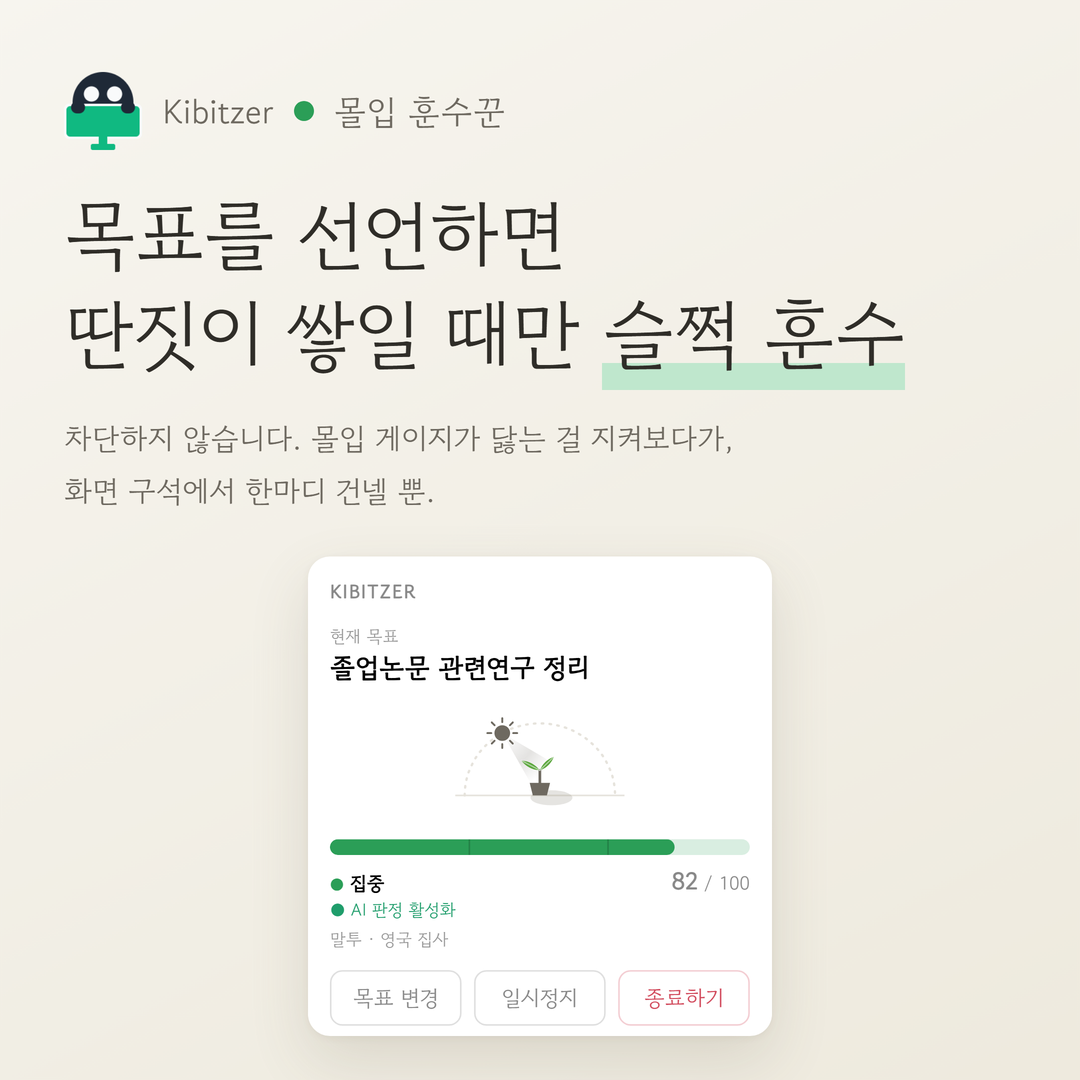
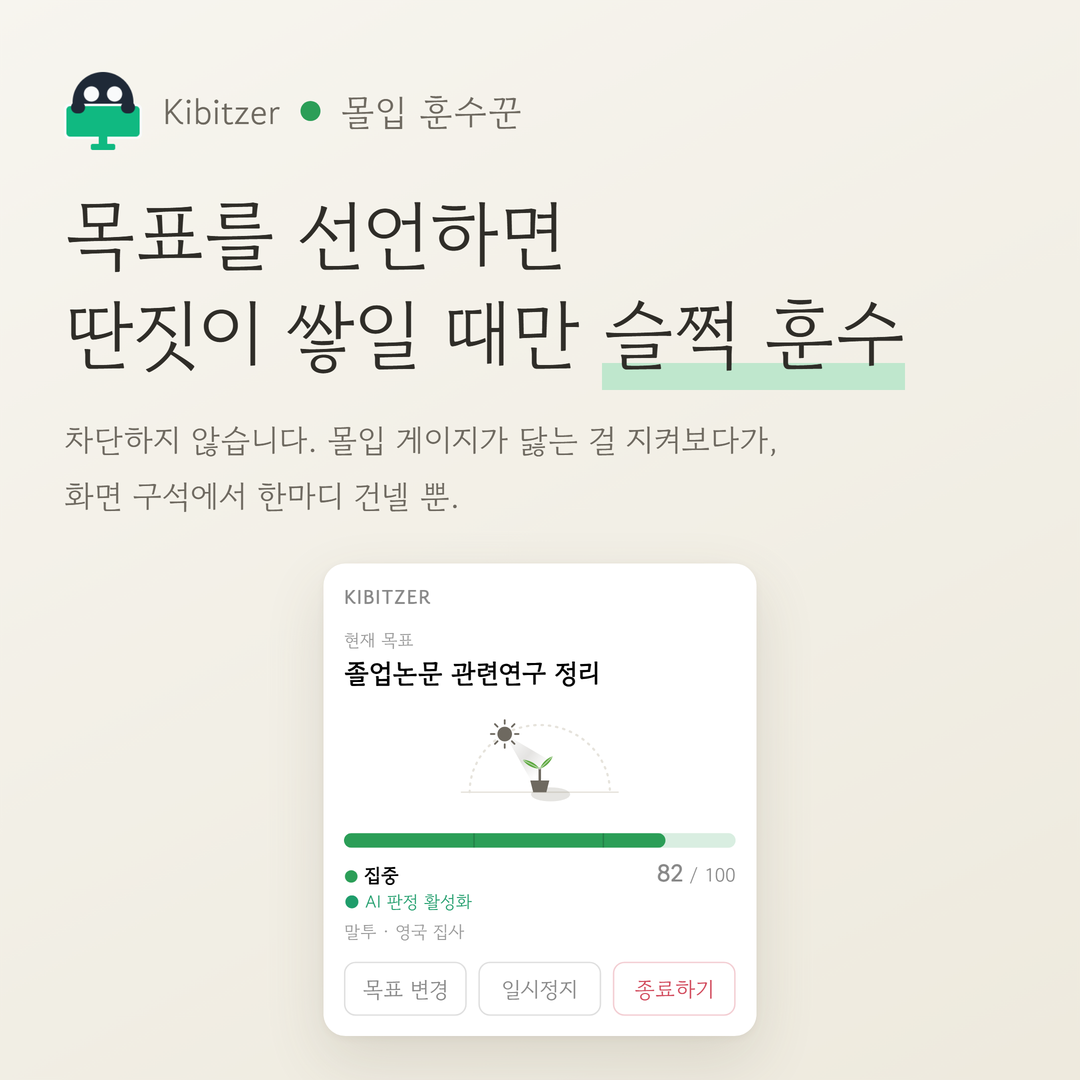
instagram: increase font sizes in insta1, insta2, insta3, insta4

Changed region(s): [[0.0611, 0.3972, 0.7333, 0.9778], [0.1528, 0.0917, 0.4889, 0.1222], [0.4583, 0.6722, 0.4889, 0.7028]]

diff --git a/tools/store-shot/stub.js b/tools/store-shot/stub.js
@@ -36,6 +36,11 @@
   // shipped sizes read a touch small blown up. Scoped to that one pane; nothing else shifts.
   var fontBumpPersona = params.get("fontBump") === "persona";
 
+  // ?fontBump=active — same idea for the popup's active (goal) card: 현재 목표, 게이지
+  // state/score, 말투 line, and the four buttons. Scoped to #active so scene1.html/
+  // store-1-popup.png (plain popup.html, no fontBump) stays untouched.
+  var fontBumpActive = params.get("fontBump") === "active";
+
   var PERSONAS = [
     { key: "navigation", name: "내비게이션", tier: "default" },
     { key: "tsundere", name: "츤데레", tier: "default" },
@@ -109,7 +114,9 @@
     cards: cardsParam ? cardsParam.split(",") : ["highlight"],
     comment: {
       status: "ready",
-      text: "78분 중 61분을 논문에 쓰셨습니다. 나머지 17분의 행방은 굳이 여쭙지 않겠습니다.",
+      // \n은 실제 UI에선(white-space:normal) 그냥 공백으로 뭉개져 무시된다 — "나머지" 뒤에서
+      // 줄바꿈되는 건 part=head 슬라이스에서만(.comment-text{white-space:pre-line} 참고).
+      text: "78분 중 61분을 논문에 쓰셨습니다. 나머지\n17분의 행방은 굳이 여쭙지 않겠습니다.",
     },
     seen: false,
     createdAt: 0,
@@ -222,7 +229,19 @@
     // The '세션 더보기' toggle and '확인' button go in both slices: they are real UI, but a
     // still image has nothing to toggle or confirm.
     if (part === "head") {
-      s.textContent += "#sumMore,#sumReport,#sumDone{display:none!important}";
+      s.textContent +=
+        "#sumMore,#sumReport,#sumDone{display:none!important}" +
+        // 이 슬라이스에서 보이는 텍스트 전부 +1px. 숫자 하나씩 직접 바꿔서 조정한다.
+        "h1{font-size:13px!important}" +           /* KIBITZER 워드마크 */
+        ".sumlabel{font-size:12px!important}" +    /* 세션 요약 */
+        ".sumgoal{font-size:18px!important}" +     /* 목표 문구 */
+        ".stat-name{font-size:13px!important}" +   /* 유효 페이지 비율 등 항목 이름 */
+        ".stat-val{font-size:16px!important}" +    /* 32/41, 1시간 1분, 3회 */
+        ".stat-val small{font-size:13px!important}" + /* · 78%, / 1시간 18분 */
+        ".top-title{font-size:14px!important}" +   /* 가장 오래 머문 페이지 제목 */
+        ".top-meta{font-size:12px!important}" +    /* 유효 · arxiv.org · 23분 */
+        ".comment-head{font-size:12px!important}" + /* 영국 집사의 한 줄 평 */
+        ".comment-text{font-size:14px!important;white-space:pre-line}"; /* 한 줄 평 본문 */
     } else if (part === "cards") {
       s.textContent +=
         // h1 goes too — the left slice already carries the KIBITZER wordmark, and repeating it
@@ -245,10 +264,22 @@
         // set by how much of its column the label text fills (최장 집중 연속 vs 첫 딴짓까지 are
         // different lengths) — widening the gap swamps that difference so the three read as
         // evenly spaced.
-        ".metrics{grid-template-columns:repeat(3,1fr);gap:8px 22px}" +
+        ".metrics{grid-template-columns:repeat(3,1fr);gap:8px 8px}" +
         // 📉 몰입 곡선: pull the legend right up under the chart (no gap at all) and shave the
         // chart's own height too — together that's what shortens the card.
-        ".scurve{height:44px}.scurve-legend{margin-top:0}";
+        ".scurve{height:44px}.scurve-legend{margin-top:0}" +
+        // 이 슬라이스에서 실제로 쓰는 카드(하이라이트·지난번보다·집중·몰입 곡선)의 텍스트만
+        // +1px. cards= 목록에 딴짓 리포트(.mischief/.rank)나 사이트별 시간을 추가하면 그
+        // 카드들 글자는 아직 이 목록에 없어서 안 커진다 — 필요해지면 여기 더 추가한다.
+        ".card>.ch{font-size:11.5px!important}" + /* 카드 제목(하이라이트/지난번보다/집중/곡선) */
+        ".dchip{font-size:12px!important}" +      /* 유효율 ▲11%p 같은 알약 */
+        ".hlc .hk{font-size:11.5px!important}" +  /* MVP / 빌런 */
+        ".hlc .hn{font-size:13px!important}" +    /* 그 아래 페이지·사이트 이름 */
+        ".hlc .hs{font-size:12px!important}" +    /* 23분 집중 / 9분 헌납 */
+        ".mc .mk{font-size:11.5px!important}" +   /* 최장 집중 연속 등 항목 이름 */
+        ".mc .mv{font-size:15px!important}" +     /* 23분 / 26분 / 9곳 */
+        ".mc .mv small{font-size:12px!important}" +
+        ".scurve-legend{font-size:11.5px!important}"; /* 이번 / 지난 범례 */
     }
 
     // ?fontBump=persona: +1px on every font-size declared inside #pane-persona (탭 제목,
@@ -257,11 +288,33 @@
     // (.hint, .card > h3) used in other tabs.
     if (fontBumpPersona) {
       s.textContent +=
-        "#pane-persona .card>h3{font-size:14px!important}" +
-        "#pane-persona .pcard .pn{font-size:16px!important}" +
-        "#pane-persona .hint{font-size:13px!important}" +
-        "#pane-persona .pqtag{font-size:14px!important}" +
-        "#pane-persona .pqtxt{font-size:16px!important}";
+        // 말투 탭 안쪽. 숫자 하나씩 직접 바꿔서 조정한다.
+        "#pane-persona .card>h3{font-size:16px!important}" +   /* 훈수 말투 / 실험실 (베타) */
+        "#pane-persona .pcard .pn{font-size:18px!important}" + /* 말투 버튼 라벨 */
+        "#pane-persona .hint{font-size:14px!important}" +      /* 실험실 안내문 */
+        "#pane-persona .pqtag{font-size:16px!important}" +     /* 선택됨 · 츤데레 */
+        "#pane-persona .pqtxt{font-size:20px!important}" +     /* 말투 인용문 */
+        // 탭 바깥 공통 부분. 지금은 실제 옵션 페이지와 같은 기본값이라 렌더가 안 바뀐다 —
+        // 키우고 싶을 때 이 숫자만 올리면 된다.
+        ".head .name{font-size:22px!important}" +              /* Kibitzer 설정 */
+        ".lede{font-size:13.5px!important}" +                  /* 그 아래 리드 문장 */
+        ".tabs button{font-size:13px!important}";              /* 일반/사이트/말투/AI 판정/데이터 */
+    }
+
+    // ?fontBump=active: +1px on the active card's text (현재 목표, 게이지 state/score, 말투
+    // line, buttons). #active scopes it to that card only.
+    if (fontBumpActive) {
+      s.textContent +=
+        // 숫자 하나씩 직접 바꿔서 조정한다.
+        "h1{font-size:13px!important}" +                  /* KIBITZER 워드마크 */
+        "#active .goal-label{font-size:12px!important}" + /* 현재 목표 */
+        "#active .goal{font-size:18px!important}" +       /* 목표 문구 */
+        "#active .state{font-size:13px!important}" +      /* 집중/흔들림/이탈 */
+        "#active .state .dot{font-size:11px!important}" +
+        "#active .score{font-size:13px!important}" +      /* / 100 */
+        "#active .score b{font-size:16px!important}" +    /* 82 */
+        "#active .mode{font-size:12px!important}" +       /* AI 판정 활성화 · 말투 줄 */
+        "#active button{font-size:15px!important}";       /* 목표 변경 / 일시정지 / 종료하기 */
     }
     document.head.appendChild(s);
 

diff --git a/tools/store-shot/insta1.html b/tools/store-shot/insta1.html
@@ -8,11 +8,21 @@
          위아래로 쌓는다 — 헤드라인 두 줄이 캔버스 폭에 꽉 차는 크기가 여기 기준이다. */
       .frame { padding-left: 64px; padding-right: 64px; }
       .logo { width: 78px; height: 78px; }
-      .brand { gap: 20px; font-size: 34px; }
+      /* h1 제외 텍스트 전부 +2px. 이 두 font-size 값만 바꾸면 각각 조정된다. */
+      .brand { gap: 20px; font-size: 36px; }
       .brand .dot { width: 20px; height: 20px; }
       h1 { font-size: 76px; line-height: 1.3; margin-top: 34px; }
-      .sub { font-size: 30px; line-height: 1.75; margin-top: 30px; }
+      .sub { font-size: 32px; line-height: 1.75; margin-top: 30px; }
       .stage { margin-top: 40px; }
+
+      /* '종료하기' 줄 아래 빈 흰색 여백. ↓ 이 숫자 하나만 바꾸면 늘고 준다.
+         data-fit-show(아래 .clip)가 실제 UI를 딱 그 지점에서 잘라내므로, UI 안에는 더
+         키울 여백이 없다 — 그래서 자른 뒤 .panel에 빈 공간을 덧붙이는 방식이다. 패널의
+         시작 y좌표(위)는 그대로고, 이 padding-bottom만큼 패널 전체 높이가 늘어난다.
+         .panel은 clip과 stage 사이에 있어서 insta-fit.js가 배율을 잴 때 이 padding을
+         자동으로 빼고 계산한다 — 너무 크게 늘리면 그만큼 배율이 줄어들 수 있다(지금
+         20px 정도는 폭이 배율을 정하고 있어서 영향 없다). */
+      .panel { padding-bottom: 15px; }
     </style>
   </head>
   <body>
@@ -27,14 +37,17 @@
       <p class="sub">차단하지 않습니다. 몰입 게이지가 닳는 걸 지켜보다가,<br />화면 구석에서 한마디 건넬 뿐.</p>
       <div class="stage">
         <!-- 카피가 폭을 다 쓰는 대신 팝업에 남는 높이가 줄었다. 맨 아래 '설정' 버튼(자연
-             높이 306px 아래쪽)을 잘라내 카드를 그만큼 더 크게 쓴다. 306px은 버튼 두 줄
-             사이의 빈 틈이라 잘린 티가 나지 않는다 — 이미지용 크롭일 뿐 UI는 그대로다. -->
+             높이 313px 아래쪽)을 잘라내 카드를 그만큼 더 크게 쓴다. 313px은 버튼 두 줄
+             사이의 빈 틈이라 잘린 티가 나지 않는다 — 이미지용 크롭일 뿐 UI는 그대로다.
+             368/313 둘 다 실측값이라, stub.js에서 글자 크기를 바꾸면 여기도 다시 재야 한다. -->
         <div class="panel">
-          <div class="clip" data-fit="296x356" data-fit-max="1.8" data-fit-show="306">
+          <div class="clip" data-fit="296x368" data-fit-max="1.8" data-fit-show="313">
             <!-- elapsedMin=30 of a 90분 budget → frac 1/3 → sundial.ts puts the sun at the
                  dome's 120° point, i.e. 11시 방향. Default (no param) would be startedAt:0,
-                 hugely overrun, showing the night moon instead — see stub.js. -->
-            <iframe class="fit-target" src="popup/popup.html?elapsedMin=30"></iframe>
+                 hugely overrun, showing the night moon instead — see stub.js.
+                 fontBump=active: 카드 안 텍스트 +1px. 숫자 조정은 stub.js의 fontBumpActive
+                 블록에서 한다 — 이 파일이 아니라 거기가 진짜 소스다. -->
+            <iframe class="fit-target" src="popup/popup.html?elapsedMin=30&amp;fontBump=active"></iframe>
           </div>
         </div>
       </div>

diff --git a/tools/store-shot/insta3.html b/tools/store-shot/insta3.html
@@ -11,11 +11,23 @@
          구성이었다 — 그 버전은 insta3-legacy.html로 남아 있다.
 
          쪼개기(?part=head|cards)와 이 슬라이스만의 스타일 다듬기(구분선 제거·상하 여백
-         대칭·집중 카드 3열·곡선 카드 압축)는 전부 stub.js의 part=cards 분기에 있다 — 이
-         파일이 아니라 거기서 고친다.
-         data-fit의 높이(381 / 413)만 실측값으로, 슬라이스별 body.scrollHeight다. */
-      .frame { padding-left: 64px; padding-right: 64px; }
+         대칭·집중 카드 3열·곡선 카드 압축·안쪽 텍스트 +1px)는 전부 stub.js의 part=head/
+         part=cards 분기에 있다 — 팝업 안쪽 글자 크기를 바꾸고 싶으면 이 파일이 아니라
+         거기 있는 font-size 숫자를 고친다(카피 쪽 h1/.chip은 아래 이 파일에서).
+         data-fit의 높이(398 / 428)만 실측값으로, 슬라이스별 body.scrollHeight다. */
+      .frame { padding-left: 64px; padding-right: 64px; margin-top:-15px;}
       .cols { margin-top: 36px; }
+      /* h1 제외 카피 텍스트 전부 +2px(insta.css 기본값 19에서). 이 font-size 값만 바꾸면
+         조정된다. (팝업 안쪽 글자는 위 주석 참고 — stub.js 쪽) */
+      .chip { font-size: 21px; }
+
+      /* 오른쪽 패널 안쪽(흰 박스 안, 하이라이트 카드 위 / 몰입 곡선 카드 아래)의 빈 여백.
+         ↓ 이 숫자 하나만 바꾸면 위·아래가 항상 같은 값으로 함께 늘고 준다.
+         (`padding: N px 0`은 위=아래=N, 좌우=0이라 폭에는 영향이 없다.)
+         이 padding은 .panel — clip과 stage 사이 — 에 있어서 insta-fit.js가 배율을 잴 때
+         자동으로 빠진다. 지금은 폭이 배율을 정하고 있어서 여백을 늘려도 카드 크기는
+         그대로다. */
+      .stage-cards .panel { padding: 12px 0; }
     </style>
   </head>
   <body>
@@ -28,14 +40,14 @@
       <div class="cols">
         <div class="stage">
           <div class="panel">
-            <div class="clip" data-fit="296x381" data-fit-max="1.8">
+            <div class="clip" data-fit="296x398" data-fit-max="1.8">
               <iframe class="fit-target" src="popup/popup.html?scene=summary&amp;part=head"></iframe>
             </div>
           </div>
         </div>
-        <div class="stage">
+        <div class="stage stage-cards">
           <div class="panel">
-            <div class="clip" data-fit="296x413" data-fit-max="1.8">
+            <div class="clip" data-fit="296x428" data-fit-max="1.8">
               <iframe
                 class="fit-target"
                 src="popup/popup.html?scene=summary&amp;part=cards&amp;cards=highlight,compare-last,focus,scurve"

diff --git a/tools/store-shot/insta2.html b/tools/store-shot/insta2.html
@@ -86,9 +86,13 @@
         position: absolute !important;
         right: 18px;
         bottom: 16px;
-        transform: scale(1.15); /* 말풍선 가로·세로 15% 확대 */
+        transform: scale(1.15); /* 말풍선 가로·세로 확대 */
         transform-origin: bottom right; /* 우하단 고정 위치는 그대로, 왼쪽·위로 커진다 */
       }
+      /* h1 제외 텍스트 전부 +2px(insta.css 기본값 24/19에서). 이 두 font-size 값만
+         바꾸면 각각 조정된다. */
+      .sub { font-size: 26px; }
+      .chip { font-size: 21px; }
     </style>
   </head>
   <body>
@@ -134,7 +138,7 @@
       showKibitzerToast({
         notificationId: "kbz-7",
         displayToken: 7,
-        message: "대단히 유익해 보이는 영상이군요. 졸업논문\n항목엔 없겠습니다만.",
+        message: "대단히 유익해 보이는 영상이군요. 졸업\n논문 항목엔 없겠습니다만.",
         contextLabel: "youtube.com#-1683729401",
         autoDismissMs: 600000,
         kind: "intervention",
@@ -148,7 +152,15 @@
       ".hands{transform:scale(1.25);transform-origin:top left}" +
       // toast.js는 .msg에 textContent로 문자열을 그대로 꽂는다. 기본 white-space:normal
       // 아래선 문자열 속 \n이 그냥 공백으로 뭉개지므로, pre-line으로 바꿔야 실제 줄바꿈이 된다.
-      ".msg{white-space:pre-line}"
+      ".msg{white-space:pre-line}" +
+      // 말풍선 안 텍스트 크기. 지금은 toast.js 기본값 그대로라 렌더가 안 바뀐다 — 숫자
+      // 하나씩 직접 바꿔서 조정한다. 이 값들은 #kibitzer-toast-host의 scale(1.15) 위에
+      // 얹히므로, 배율은 그대로 두고 특정 텍스트만 키우거나 줄일 때 쓴다.
+      ".brand{font-size:11px}" +  /* "Kibitzer" 라벨 */
+      ".close{font-size:12px}" +    /* ✕ 닫기 버튼 */
+      ".msg{font-size:15px}" +      /* 본문 메시지 */
+      ".ctx{font-size:10.5px}" +    /* youtube.com#-... 컨텍스트 줄 */
+      ".btn{font-size:12.2px}"      /* 목표와 관련 있어요 / 5분만 / 30분 조용히 */
       host.shadowRoot.appendChild(s)
     </script>
     <script src="insta-fit.js"></script>

diff --git a/tools/store-shot/insta4.html b/tools/store-shot/insta4.html
@@ -16,6 +16,9 @@
          data-fit의 높이(679)는 실측값으로, 928px 너비에서의 body.scrollHeight다. */
       .frame { padding-left: 64px; padding-right: 64px; }
       .stage { margin-top: 40px; }
+      /* h1 제외 텍스트 전부 +2px(insta.css 기본값 24에서). 이 font-size 값만 바꾸면
+         조정된다. */
+      .sub { font-size: 26px; }
     </style>
   </head>
   <body>
